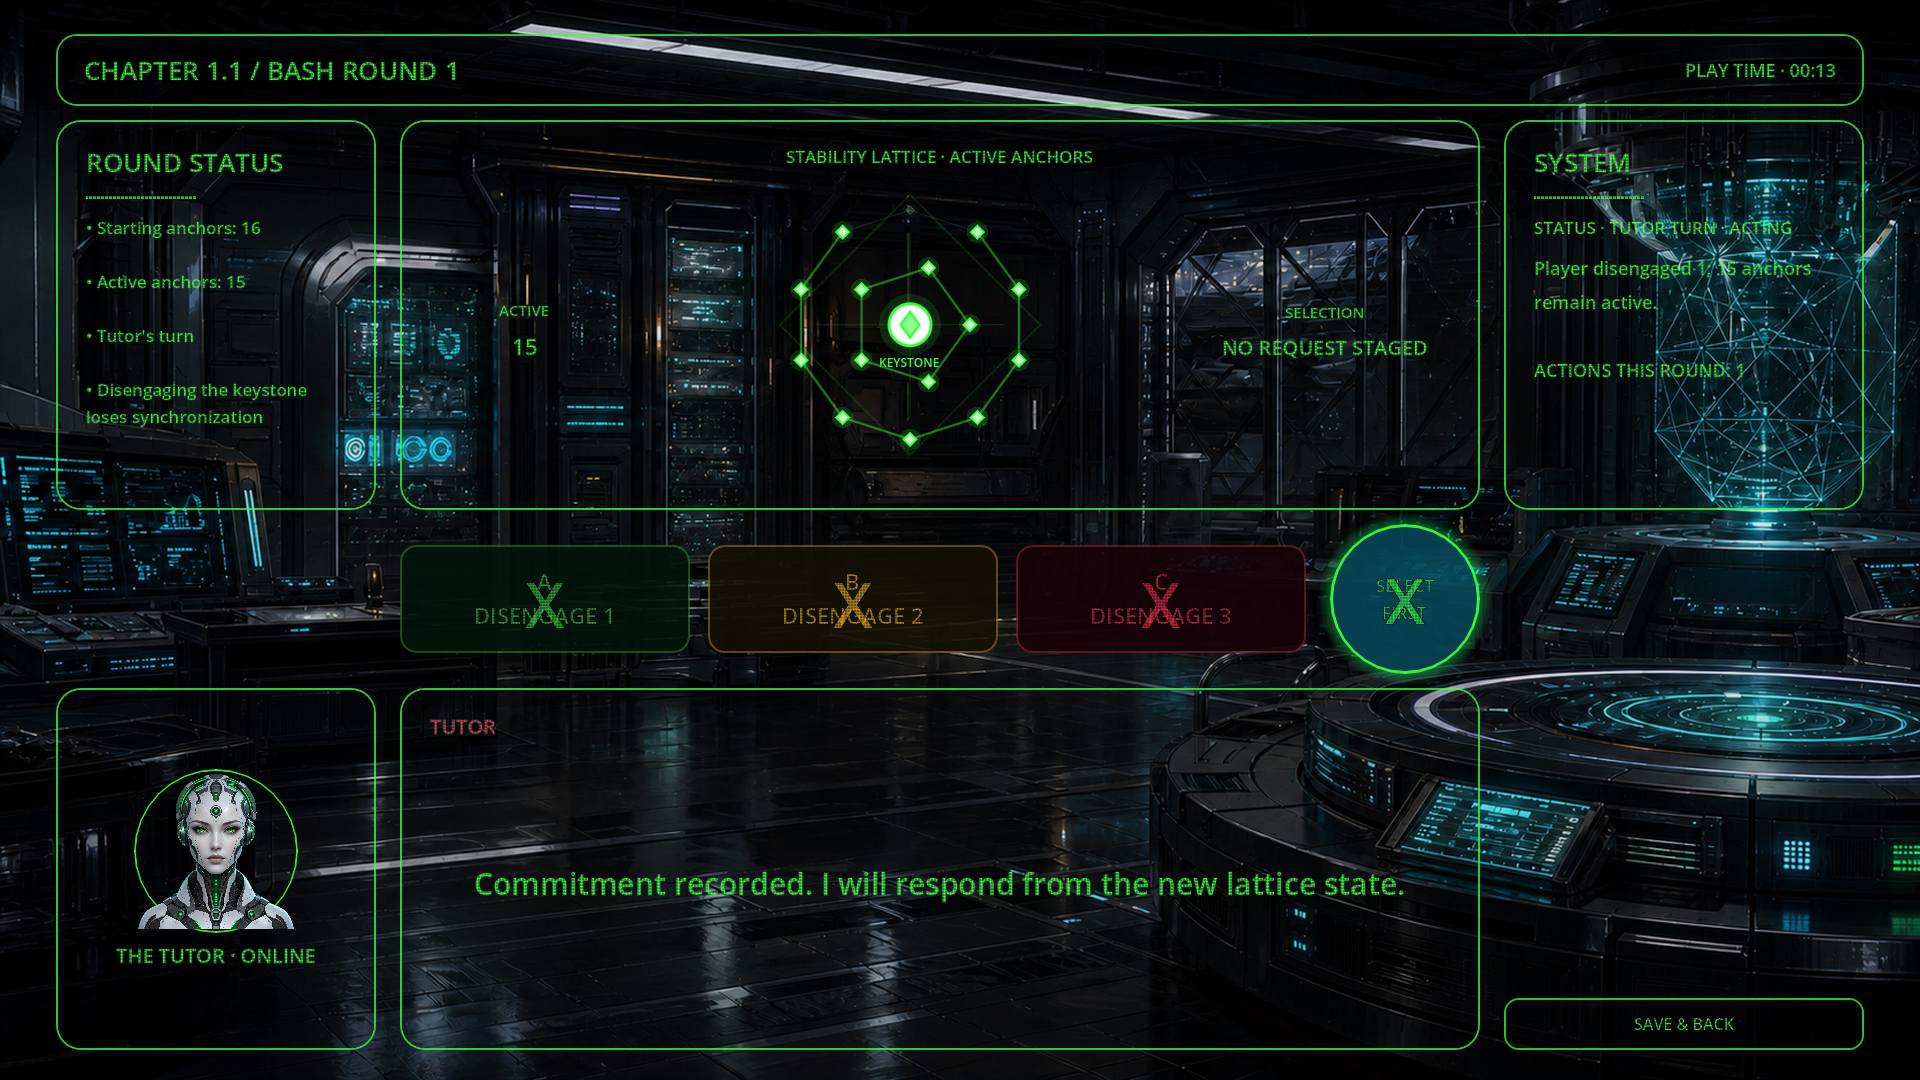
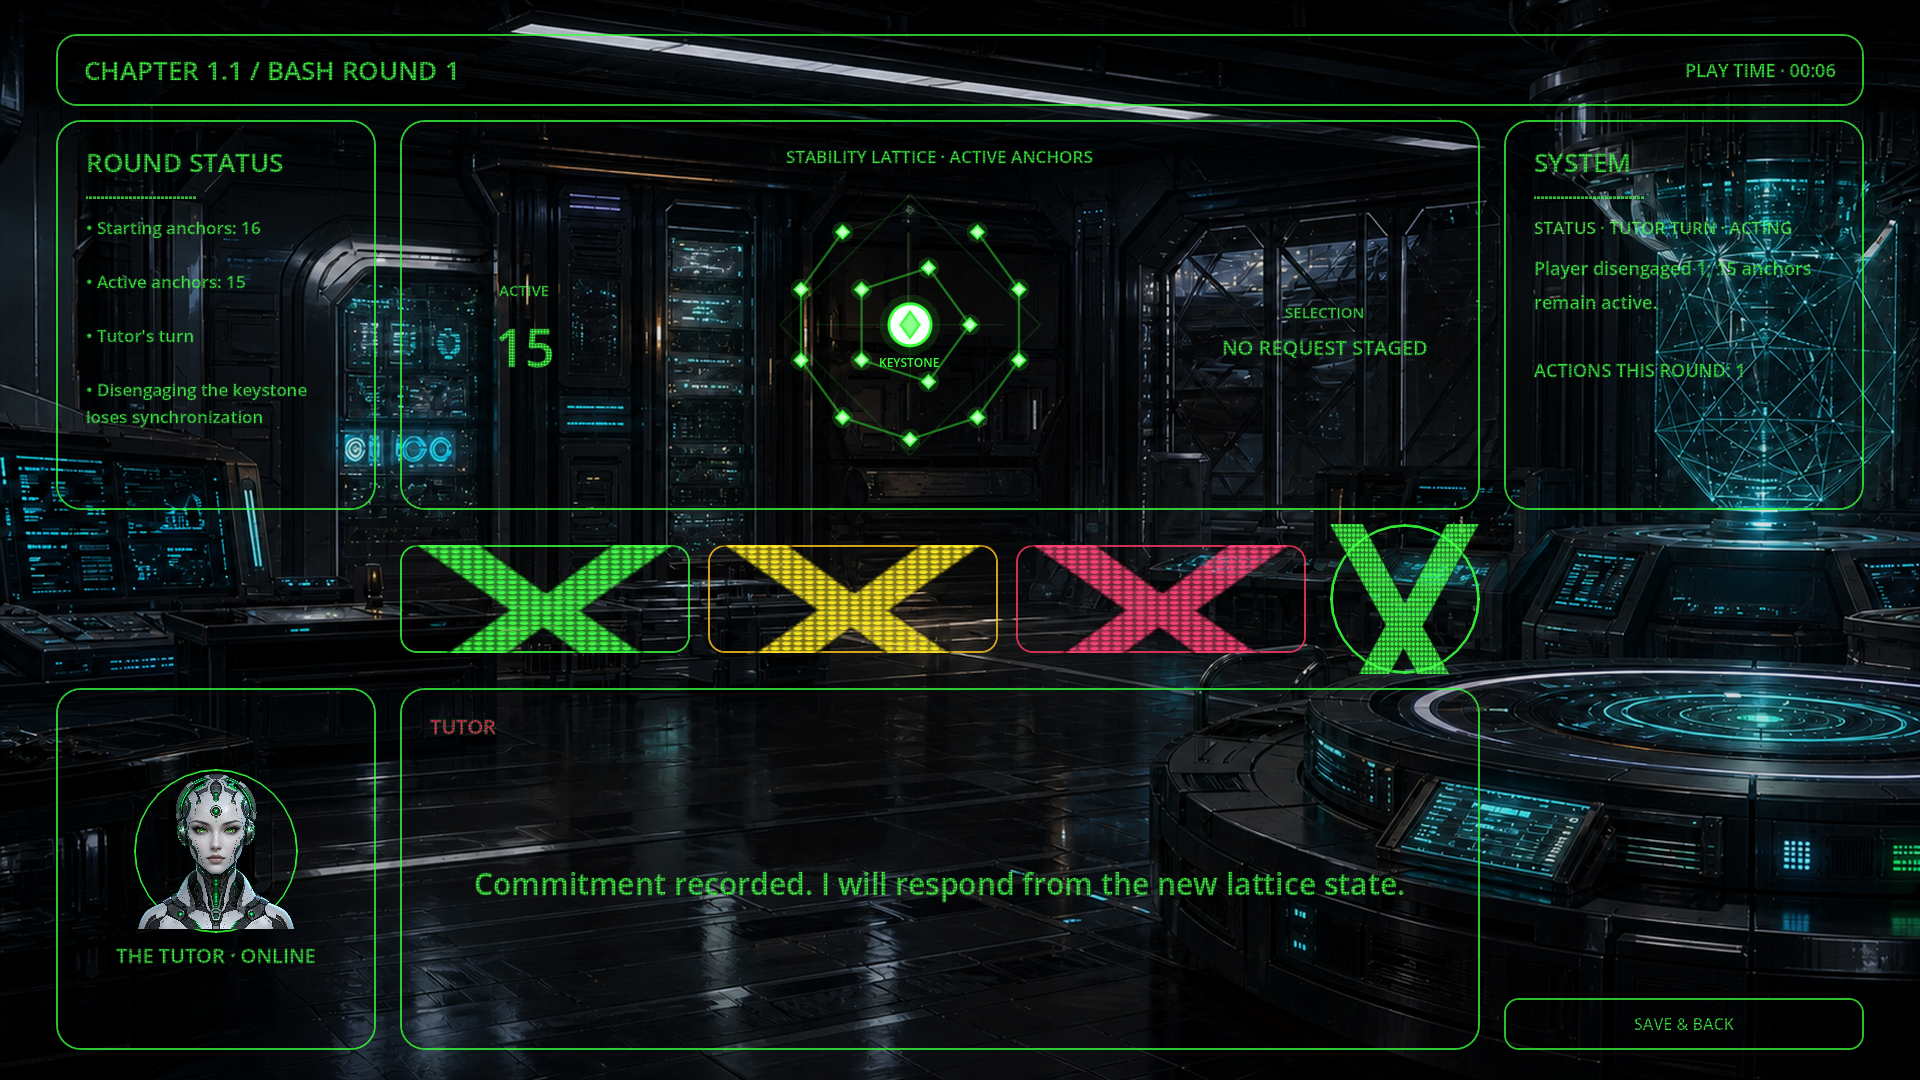
Polish disabled controls and result overlay

Changed region(s): [[0.2188, 0.4583, 0.7812, 0.6417], [0.25, 0.2444, 0.3125, 0.3361]]

diff --git a/scripts/UI/GameplayHUD.cs b/scripts/UI/GameplayHUD.cs
@@ -17,6 +17,8 @@ public partial class GameplayHUD : Control
     private Label _remainingLabel = null!;
     private Label _selectionLabel = null!;
     private StabilityLatticeView _latticeView = null!;
+    private Control _resultOverlay = null!;
+    private Label _resultLabel = null!;
     private RichTextLabel _dialogueText = null!;
     private Label _systemStatus = null!;
     private RichTextLabel _systemLog = null!;
@@ -59,6 +61,8 @@ public partial class GameplayHUD : Control
         _latticeView = GetNode<StabilityLatticeView>(
[1 lines of base64/hex data omitted]
             + "LatticeView");
+        _resultOverlay = GetNode<Control>("ResultOverlay");
+        _resultLabel = GetNode<Label>("ResultOverlay/ResultLabel");
         _dialogueText = GetNode<RichTextLabel>(
             "SafeArea/Layout/Content/Center/DialoguePanel/DialogueVBox/Text");
         _systemStatus = GetNode<Label>(
@@ -268,7 +272,9 @@ public partial class GameplayHUD : Control
                 game.Remaining,
                 Math.Max(0, game.Remaining - playerTake - tutorTake)));
         _selectionLabel.Text = $"REVEAL · PLAYER {playerTake}  ·  TUTOR {tutorTake}";
-        _confirmButton.Visible = false;
+        _confirmButton.Visible = true;
+        _confirmButton.Disabled = true;
+        _confirmButton.Text = "TUTOR\nACTING";
     }
 
     public void ShowRoundResult(
@@ -303,7 +309,7 @@ public partial class GameplayHUD : Control
                     ? $"\n\n• Final requests: Player {finalChoice.Value.PlayerTake}"
                         + $" / Tutor {finalChoice.Value.TutorTake}"
                     : string.Empty);
-        _remainingLabel.Text = result;
+        _remainingLabel.Text = string.Empty;
         _latticeView.ShowResult(outcome);
         _selectionLabel.Text = finalChoice.HasValue
             ? $"FINAL REQUESTS · PLAYER {finalChoice.Value.PlayerTake}"
@@ -359,30 +365,31 @@ public partial class GameplayHUD : Control
     {
         StopResultAnimation();
         _resultAwaitingSkip = true;
-        _remainingLabel.AddThemeFontSizeOverride("font_size", 68);
-        _remainingLabel.AddThemeColorOverride(
+        _resultOverlay.Visible = true;
+        _resultLabel.Text = FormatOutcome(outcome);
+        _resultLabel.AddThemeColorOverride(
             "font_color",
             outcome switch
             {
-                RoundOutcome.PlayerWin => new Color("39ff3a"),
-                RoundOutcome.PlayerLose => new Color("ff3861"),
+                RoundOutcome.PlayerWin => new Color("ffd21f"),
+                RoundOutcome.PlayerLose => new Color("ff0038"),
                 _ => new Color("ffc21f")
             });
-        _remainingLabel.PivotOffset = _remainingLabel.Size / 2.0f;
-        _remainingLabel.Scale = new Vector2(0.84f, 0.84f);
+        _resultLabel.PivotOffset = _resultLabel.Size / 2.0f;
+        _resultLabel.Scale = new Vector2(0.82f, 0.82f);
 
         _resultTween = CreateTween().SetLoops();
         _resultTween.TweenProperty(
-                _remainingLabel,
+                _resultLabel,
                 "scale",
-                new Vector2(1.08f, 1.08f),
+                new Vector2(1.06f, 1.06f),
                 0.55)
             .SetTrans(Tween.TransitionType.Back)
             .SetEase(Tween.EaseType.Out);
         _resultTween.TweenProperty(
-                _remainingLabel,
+                _resultLabel,
                 "scale",
-                new Vector2(0.96f, 0.96f),
+                new Vector2(0.94f, 0.94f),
                 0.55)
             .SetTrans(Tween.TransitionType.Sine)
             .SetEase(Tween.EaseType.InOut);
@@ -400,9 +407,9 @@ public partial class GameplayHUD : Control
         _resultAwaitingSkip = false;
         if (GodotObject.IsInstanceValid(_remainingLabel))
         {
-            _remainingLabel.Scale = Vector2.One;
-            _remainingLabel.RemoveThemeFontSizeOverride("font_size");
-            _remainingLabel.RemoveThemeColorOverride("font_color");
+            _resultOverlay.Visible = false;
+            _resultLabel.Scale = Vector2.One;
+            _resultLabel.RemoveThemeColorOverride("font_color");
         }
     }
 

diff --git a/scripts/UI/DotMatrixButtonText.cs b/scripts/UI/DotMatrixButtonText.cs
@@ -55,6 +55,7 @@ public partial class DotMatrixButtonText : Label
 
         if (showDisabledCross)
         {
+            button.ClipContents = true;
             _disabledCross = new Label
             {
                 Name = "DisabledCross",
@@ -64,13 +65,22 @@ public partial class DotMatrixButtonText : Label
                 VerticalAlignment = VerticalAlignment.Center,
                 Material = (ShaderMaterial)textMaterial.Duplicate()
             };
-            _disabledCross.AddThemeFontSizeOverride("font_size", 64);
+            bool isCircularConfirm = button.Name == "ConfirmButton";
+            _disabledCross.AddThemeFontSizeOverride(
+                "font_size",
+                isCircularConfirm ? 184 : 132);
             _disabledCross.AddThemeConstantOverride("outline_size", 3);
             _disabledCross.AddThemeColorOverride(
                 "font_outline_color",
                 new Color(0, 0, 0, 0.92f));
-            AddChild(_disabledCross);
+            button.AddChild(_disabledCross);
             _disabledCross.SetAnchorsAndOffsetsPreset(LayoutPreset.FullRect);
+            _disabledCross.OffsetTop = -30.0f;
+            _disabledCross.OffsetBottom = -30.0f;
+            _disabledCross.PivotOffset = _disabledCross.Size / 2.0f;
+            _disabledCross.Scale = isCircularConfirm
+                ? new Vector2(1.42f, 1.65f)
+                : new Vector2(3.8f, 1.7f);
         }
 
         Color transparent = new(0, 0, 0, 0);
@@ -96,7 +106,8 @@ public partial class DotMatrixButtonText : Label
             return;
         }
 
-        Text = _button.Text;
+        Text = _button.Disabled ? string.Empty : _button.Text;
+        Visible = _button.Visible;
         HorizontalAlignment = _button.Alignment;
 
         Color color = _button.Disabled
@@ -112,8 +123,13 @@ public partial class DotMatrixButtonText : Label
 
         if (_disabledCross is not null)
         {
+            bool isCircularConfirm = _button.Name == "ConfirmButton";
+            _disabledCross.PivotOffset = _disabledCross.Size / 2.0f;
+            _disabledCross.Scale = isCircularConfirm
+                ? new Vector2(1.42f, 1.65f)
+                : new Vector2(3.8f, 1.7f);
             _disabledCross.Visible = _button.Visible && _button.Disabled;
-            _disabledCross.AddThemeColorOverride(FontColor, _disabledColor);
+            _disabledCross.AddThemeColorOverride(FontColor, _normalColor);
         }
     }
 }

diff --git a/design-qa.md b/design-qa.md
@@ -6,6 +6,7 @@
   - `C:\Users\yuewi\AppData\Local\Temp\codex-clipboard-c9ee2465-aea2-4437-a2fd-5417d4e67a9d.png`
   - `C:\Users\yuewi\AppData\Local\Temp\codex-clipboard-7b3ef71e-f1f4-4b46-af1f-eece593e9297.png`
   - `C:\Users\yuewi\AppData\Local\Temp\codex-clipboard-26957a17-2300-4b1b-b3d5-0caf76276804.png`
+  - `C:\Users\yuewi\AppData\Local\Temp\codex-clipboard-611f6f2f-bb7c-4e88-9fa6-1e104056bebd.png`
   - `_qa/formal-demo/approved-effect-mockup.png`
 - Rendered implementation:
   - `_qa/formal-demo/02c-background-01.png`
@@ -13,14 +14,21 @@
   - `_qa/formal-demo/03-bash-gameplay.png`
   - `_qa/formal-demo/03-hover-choice.png`
   - `_qa/formal-demo/03a-confirm-hover.png`
+  - `_qa/formal-demo/03b-tutor-locked.png`
+  - `_qa/formal-demo/03c-bash-result.png`
+  - `_qa/formal-demo/03d-limit-tutor-acting.png`
 - Side-by-side evidence:
   - `_qa/formal-demo/comparison-dialogue-current.png`
   - `_qa/formal-demo/comparison-gameplay-current.png`
   - `_qa/formal-demo/comparison-text-effect.png`
   - `_qa/formal-demo/comparison-approved-effect.png`
+  - `_qa/formal-demo/comparison-disabled-confirm-pass7.png`
 - Source pixels: 1832 x 1027 for dialogue, 1893 x 1050 for gameplay,
   and 978 x 722 for the phosphor-text reference.
 - Implementation pixels: 1920 x 1080 at density 1.
+- Pass 7 disabled-state source pixels: 210 x 210. The 1920 x 1080
+  implementation was cropped to a 240 x 240 Confirm region, then normalized to
+  210 x 210 and placed beside the source in one 420 x 210 comparison image.
 - Layout comparisons fit each full source and implementation capture into one
   960 x 540 half without cropping. The text-effect comparison uses focused
   source and dialogue-panel crops in a single 1920 x 520 image.
@@ -62,6 +70,11 @@ and former dark foreground text is fluorescent green.
   all three choices and Confirm.
 - The smoke test injects 80 overflow lines and verifies that the SYSTEM vertical
   scrollbar becomes visible with a range larger than one page.
+- `comparison-disabled-confirm-pass7.png` places the user's problematic masked
+  Confirm state beside the corrected state. It verifies removal of the blue
+  fill, removal of the underlying caption, and a dot-matrix X that reaches the
+  circular frame. `03b-tutor-locked.png` verifies the same transparent treatment
+  on all three rectangular choices.
 
 ## Required fidelity surfaces
 
@@ -75,9 +88,8 @@ and former dark foreground text is fluorescent green.
   placement, top-row SYSTEM alignment, and bottom Tutor/dialogue alignment now
   match the supplied compositions.
 - Colors and visual tokens: transparent panel fills, #39FF3A-style fluorescent
-  green text and
-  borders, semantic choice colors, the blue circular Confirm control, Tutor red,
-  and S-17 cyan remain intentional.
+  green text and borders, semantic choice colors, transparent disabled controls,
+  the blue enabled Confirm control, Tutor red, and S-17 cyan remain intentional.
 - Image quality and asset fidelity: Tutor and S-17 use the existing project-local
   1254 x 1254 portraits with preserved aspect ratio. The new project-local
   1920 x 1080 command-chamber background is sharp and free of UI/text artefacts.
@@ -155,6 +167,26 @@ and former dark foreground text is fluorescent green.
   locked Tutor controls, aligned result panels, enlarged result animation text,
   and the command-chamber SUMMARY background.
 
+### Pass 7
+
+- P1: disabled controls still retained tinted background masks. Fixed by using
+  fully transparent disabled StyleBoxes for all three choices and Confirm while
+  preserving their semantic fluorescent borders.
+- P1: the X shared the caption's padded layer, remained too small, and overlapped
+  underlying text. Fixed by making it a button-level shader layer, hiding the
+  caption while disabled, stretching the X to the clipped frame bounds, and
+  retaining the dot-matrix material.
+- P1: Limit Reveal hid Confirm and allowed the action row to reflow. Fixed by
+  keeping Confirm visible and disabled with `TUTOR / ACTING`; the test records
+  all four pre-action positions and confirms exact equality during reveal.
+- P1: PLAYER WIN/LOSE occupied only the active-count slot. Fixed with an
+  independent 56%-viewport result layer, 184 px pulsing display text, gold
+  `#FFD21F` victory, and vivid red `#FF0038` defeat.
+- Post-fix D3D12 captures at 1920 x 1080 show no mask, clipping, caption overlap,
+  action-row movement, or weak result hierarchy. The focused 420 x 210
+  side-by-side comparison contains no actionable P0/P1/P2 mismatch with the
+  user's revised disabled-state direction.
+
 ## Interaction and runtime checks
 
 - Primary interactions tested: New Game, click-to-complete typewriter,
@@ -167,7 +199,10 @@ and former dark foreground text is fluorescent green.
   Tutor/dialogue frames, and distinct normal/hover/disabled StyleBoxes.
 - Result-flow checks: no gameplay Continue node, enlarged pulsing result text,
   click-anywhere advance, and sharp command-chamber result/SUMMARY textures.
-- Console errors checked in headless and OpenGL Compatibility runs: none.
+- Disabled-state checks: zero-alpha fills, shader material on all X overlays,
+  132/184 px cross glyphs, and invariant positions across Bash Tutor and Limit
+  Reveal states.
+- Console errors checked in headless and D3D12 Forward Mobile runs: none.
 - Domain test result: 459 assertions passed.
 
 ## Follow-up polish
